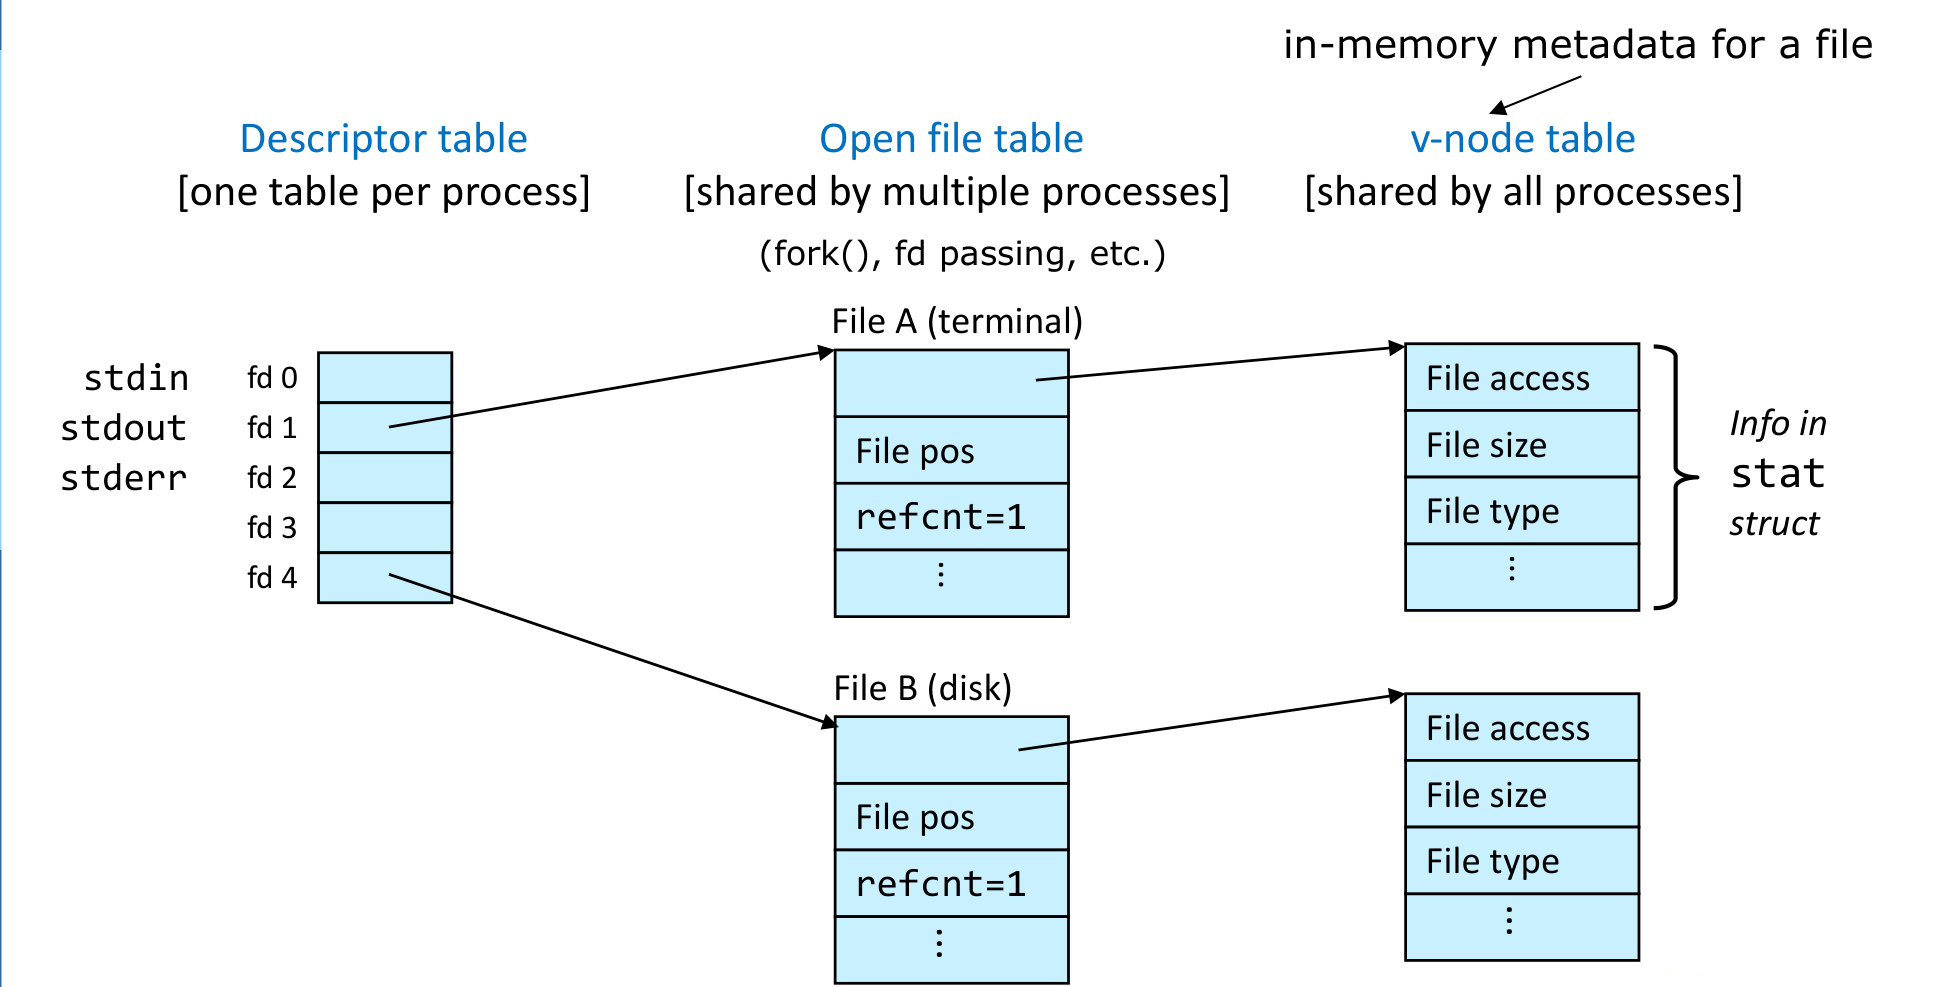
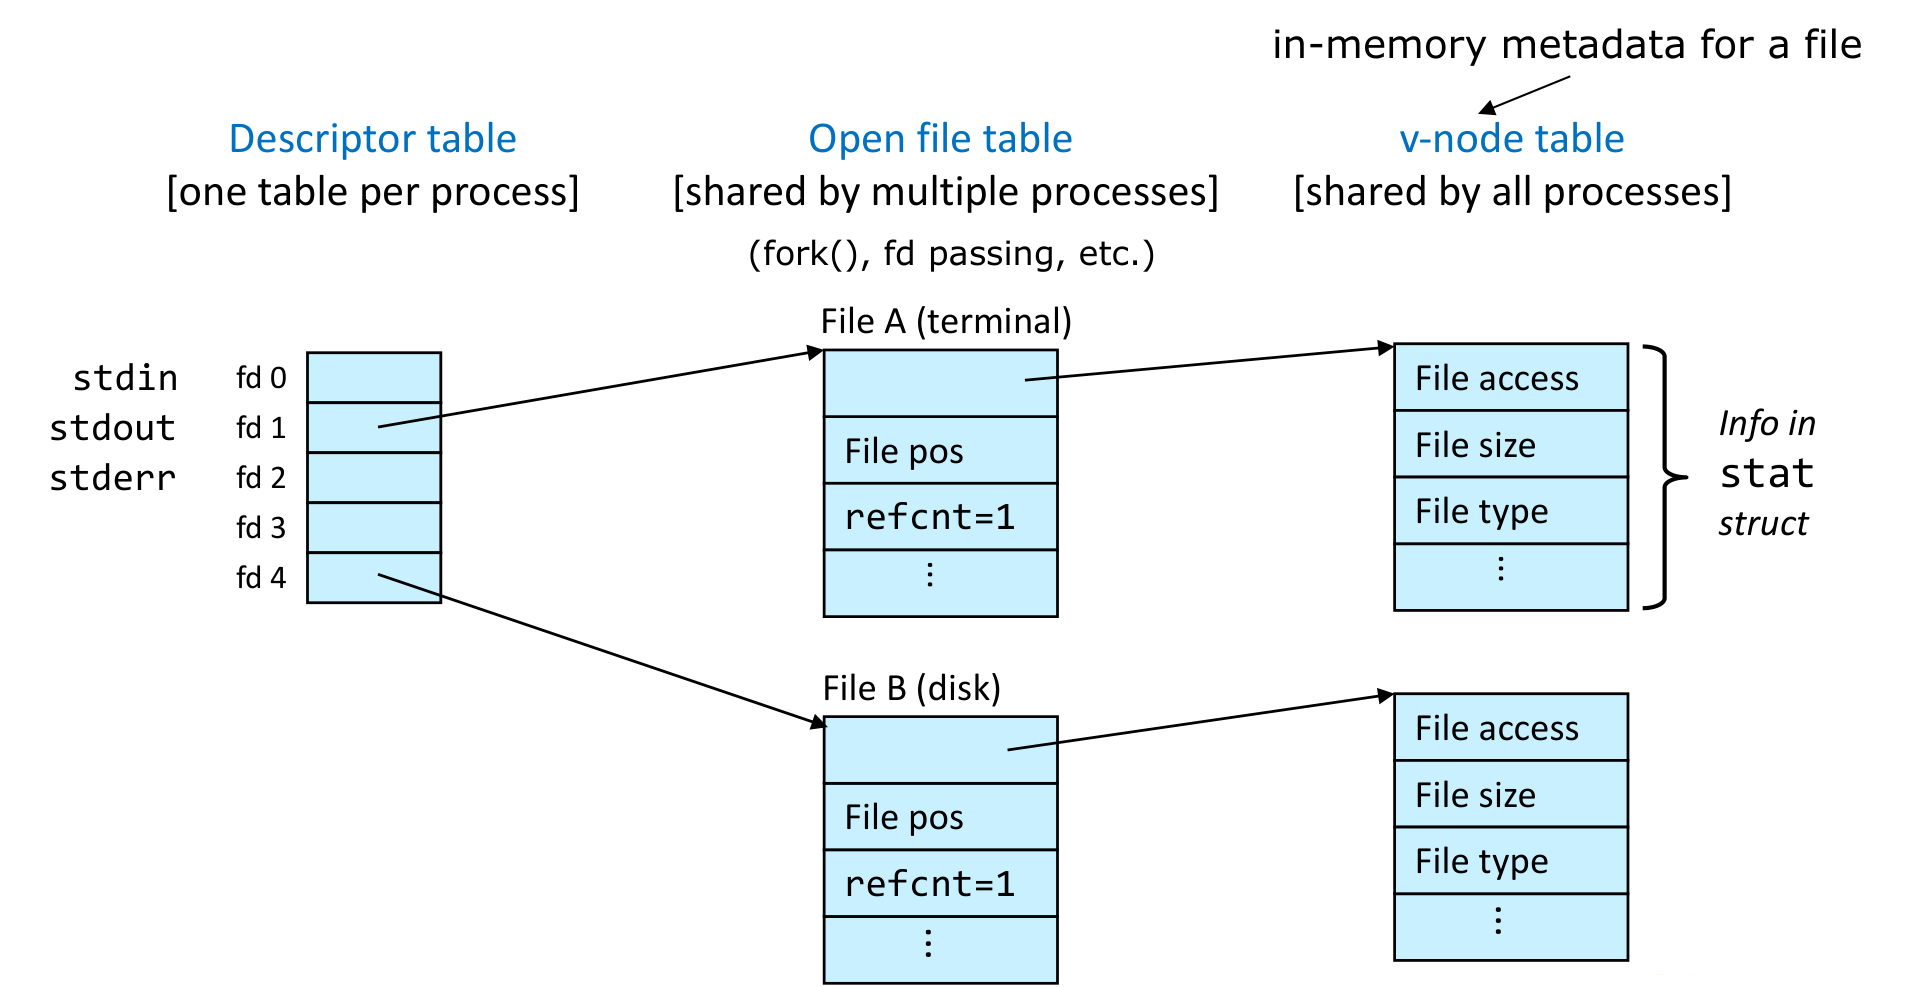
Fix [System Programming] 05. figure02 crop
3.1절 그림 왼쪽 가장자리에 슬라이드의 세로 강조 막대 2px가 딸려
들어와 있어 크롭 시작점을 4pt에서 8pt로 옮겨 제거했습니다.

diff --git a/docs/posts/System Programming/05.Files-and-Directories/5.1/index.html b/docs/posts/System Programming/05.Files-and-Directories/5.1/index.html
@@ -67,6 +67,7 @@ pre > code.sourceCode > span > a:first-child::before { text-decoration: underlin
 <script src="../../../../site_libs/quarto-search/fuse.min.js"></script>
 <script src="../../../../site_libs/quarto-search/quarto-search.js"></script>
 <meta name="quarto:offset" content="../../../../">
+<link href="../../../../posts/System Programming/06.Variable-and-Memory-Recap/6.1/index.html" rel="next">
 <link href="../../../../posts/System Programming/04.Direct-and-Buffered-IO/4.1/index.html" rel="prev">
 <link href="../../../../favicon.png" rel="icon" type="image/png">
 <script src="../../../../site_libs/quarto-html/quarto.js" type="module"></script>
@@ -3049,6 +3050,40 @@ window.Quarto = {
 </li>
       </ul>
   </li>
+          <li class="sidebar-item sidebar-item-section">
+      <div class="sidebar-item-container"> 
+            <a class="sidebar-item-text sidebar-link text-start collapsed" data-bs-toggle="collapse" data-bs-target="#quarto-sidebar-section-153" role="navigation" aria-expanded="false">
+ <span class="menu-text">06.Variable and Memory Recap</span></a>
+          <a class="sidebar-item-toggle text-start collapsed" data-bs-toggle="collapse" data-bs-target="#quarto-sidebar-section-153" role="navigation" aria-expanded="false" aria-label="Toggle section">
+            <i class="bi bi-chevron-right ms-2"></i>
+          </a> 
+      </div>
+      <ul id="quarto-sidebar-section-153" class="collapse list-unstyled sidebar-section depth3 ">  
+          <li class="sidebar-item">
+  <div class="sidebar-item-container"> 
+  <a href="../../../../posts/System Programming/06.Variable-and-Memory-Recap/6.1/index.html" class="sidebar-item-text sidebar-link">
+ <span class="menu-text">[System Programming] 06. Recap: Variables and Memory</span></a>
+  </div>
+</li>
+      </ul>
+  </li>
+          <li class="sidebar-item sidebar-item-section">
+      <div class="sidebar-item-container"> 
+            <a class="sidebar-item-text sidebar-link text-start collapsed" data-bs-toggle="collapse" data-bs-target="#quarto-sidebar-section-154" role="navigation" aria-expanded="false">
+ <span class="menu-text">07.Virtual Memory Recap</span></a>
+          <a class="sidebar-item-toggle text-start collapsed" data-bs-toggle="collapse" data-bs-target="#quarto-sidebar-section-154" role="navigation" aria-expanded="false" aria-label="Toggle section">
+            <i class="bi bi-chevron-right ms-2"></i>
+          </a> 
+      </div>
+      <ul id="quarto-sidebar-section-154" class="collapse list-unstyled sidebar-section depth3 ">  
+          <li class="sidebar-item">
+  <div class="sidebar-item-container"> 
+  <a href="../../../../posts/System Programming/07.Virtual-Memory-Recap/7.1/index.html" class="sidebar-item-text sidebar-link">
+ <span class="menu-text">[System Programming] 07. Virtual Memory Recap</span></a>
+  </div>
+</li>
+      </ul>
+  </li>
       </ul>
   </li>
       </ul>
@@ -4608,6 +4643,9 @@ window.Quarto = {
       </a>          
   </div>
   <div class="nav-page nav-page-next">
+      <a href="../../../../posts/System Programming/06.Variable-and-Memory-Recap/6.1/index.html" class="pagination-link" aria-label="[System Programming] 06. Recap: Variables and Memory">
+        <span class="nav-page-text">[System Programming] 06. Recap: Variables and Memory</span> <i class="bi bi-arrow-right-short"></i>
+      </a>
   </div>
 </nav>
 </div> <!-- /content -->
